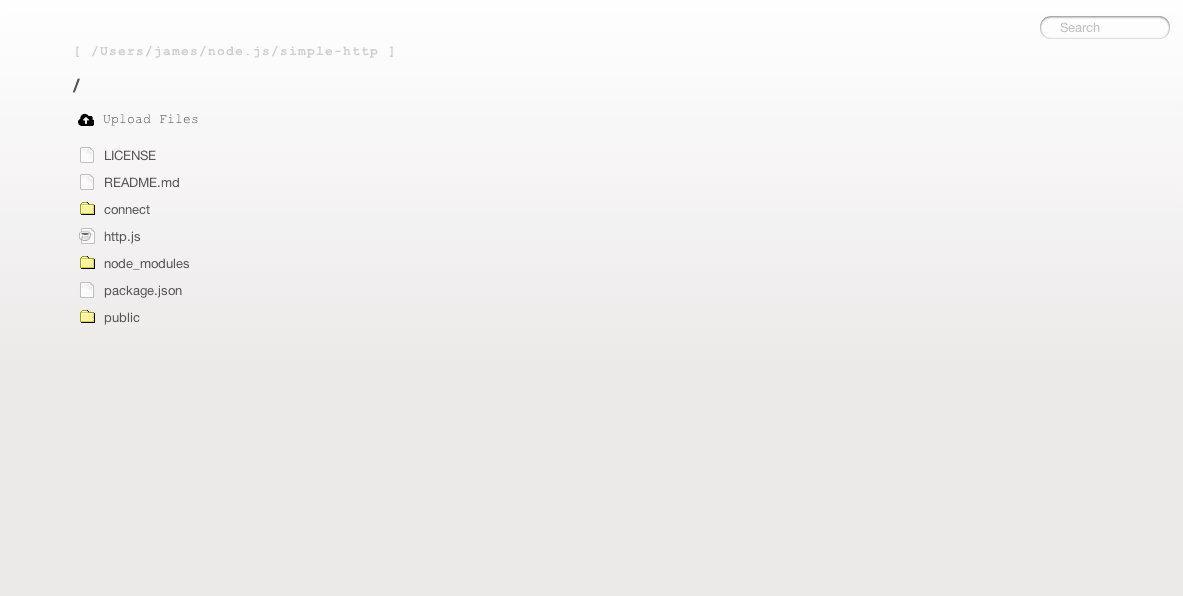
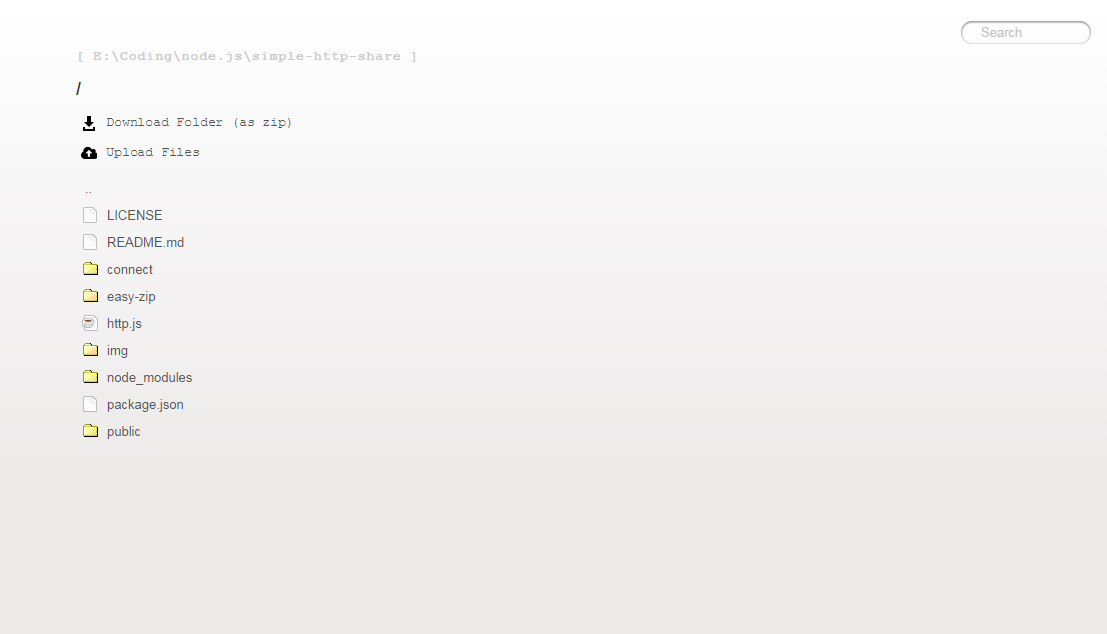
updated screenshot

diff --git a/README.md b/README.md
@@ -1,6 +1,6 @@
 # Simple HTTP Share
 
-Simple HTTP Share is a small utility to quickly share files from a directory to other machines on the LAN using HTTP (similar to Python's SimpleHTTPServer).  You can also upload files to the host machine as well.
+Simple HTTP Share is a small utility to quickly share files from a directory to other machines on the LAN using HTTP (similar to Python's SimpleHTTPServer).  You can also upload files to the host machine and quickly download entire folder contents.
 
 ![Screen Shot](https://raw.githubusercontent.com/jrnewell/simple-http-share/master/img/screen-shot.png "Screen Shot")
 
@@ -34,6 +34,7 @@ Usage: simple-http [options]
     -h, --hostname <address>  Bind to hostname
     -p, --port <num>          Port Number
     -i, --interface <num>     Bind to Network Interface
+    -s, --show-hidden-files   Shows hidden files in directory
     -u, --disable-uploads     Disables the upload file feature
 
 ```
